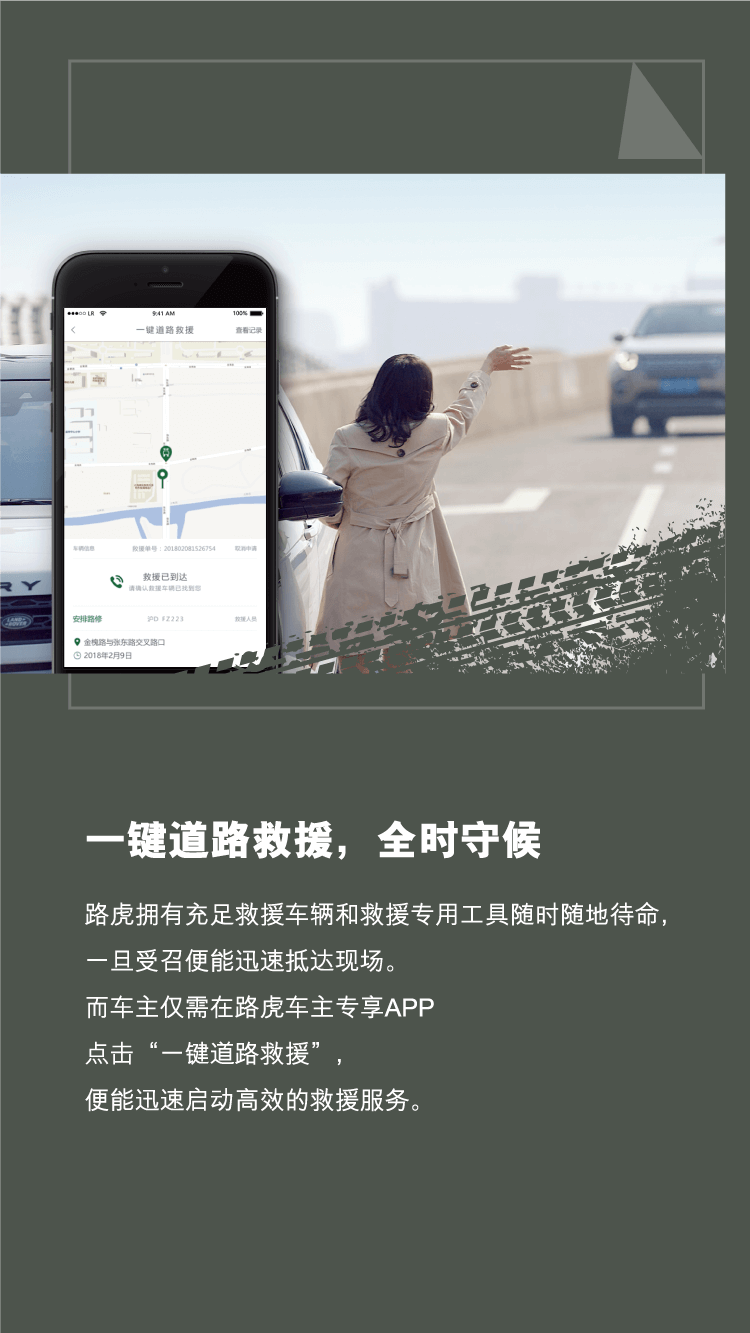
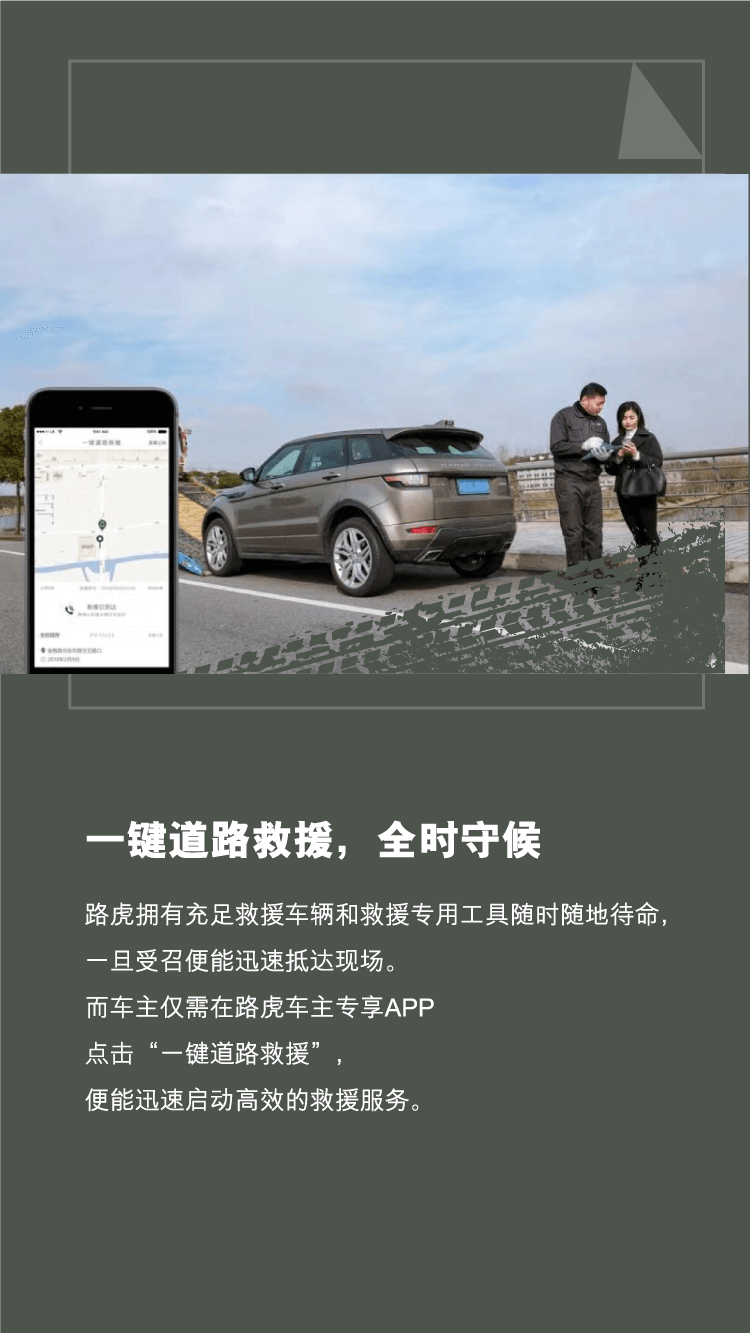
update img version1

Changed region(s): [[0.0, 0.123, 1.0, 0.5229]]

diff --git a/public/html/activity/assets/global.css b/public/html/activity/assets/global.css
@@ -79,40 +79,40 @@
     margin-left: -9px;
     width: 19px;
     height: 12px;
-    background: url(./img/arrow_gray.png?t=201902181421);
+    background: url(./img/arrow_gray.png?t=201903121054);
     background-size: 100% 100%;
     -webkit-animation: start 1.5s infinite ease-in-out;
     animation: start 1.5s infinite ease-in-out;
 }
 
 #jaguar .page1{
-    background-image: url("./img/1@2x.png?t=201902181421");
+    background-image: url("./img/1@2x.png?t=201903121054");
     background-size: 100% 100%;
     background-repeat: no-repeat;
     background-color: #fff;
 }
 #jaguar .page2{
-    background-image: url("./img/2@2x.png?t=201902181421");
+    background-image: url("./img/2@2x.png?t=201903121054");
     background-size: 100% 100%;
     background-repeat: no-repeat;
     background-color: #1d263f;
 }
 #jaguar .page3{
-    background-image: url("./img/3@2x.png?t=201902181421");
+    background-image: url("./img/3@2x.png?t=201903121054");
     background-size: 100% 100%;
     background-repeat: no-repeat;
     background-color: #1d263f;
 }
 
 #jaguar .page4{
-    background-image: url("./img/4@2x.png?t=201902181421");
+    background-image: url("./img/4@2x.png?t=201903121054");
     background-size: 100% 100%;
     background-repeat: no-repeat;
     background-color: #1d263f;
 }
 
 #jaguar .page5{
-    background-image: url("./img/5@2x.png?t=201902181421");
+    background-image: url("./img/5@2x.png?t=201903121054");
     background-size: 100% 100%;
     background-repeat: no-repeat;
     background-color: #1d263f;
@@ -120,47 +120,47 @@
 
 
 #jaguar .page6{
-    background-image: url("./img/6@2x.png?t=201902181421");
+    background-image: url("./img/6@2x.png?t=201903121054");
     background-size: 100% 100%;
     background-repeat: no-repeat;
     background-color: #1d263f;
 }
 
 #jaguar .page7{
-    background-image: url("./img/7@2x.png?t=201902181421");
+    background-image: url("./img/7@2x.png?t=201903121054");
     background-size: 100% 100%;
     background-repeat: no-repeat;
     background-color: #1d263f;
 }
 
 #land-rover .page1{
-    background-image: url("./img/l1@2x.png?t=201902181421");
+    background-image: url("./img/l1@2x.png?t=201903121054");
     background-size: 100% 100%;
     background-repeat: no-repeat;
     background-color: #fff;
 }
 #land-rover .page2{
-    background-image: url("./img/l2@2x.png?t=201902181421");
+    background-image: url("./img/l2@2x.png?t=201903121054");
     background-size: 100% 100%;
     background-repeat: no-repeat;
     background-color: #1d263f;
 }
 #land-rover .page3{
-    background-image: url("./img/l3@2x.png?t=201902181421");
+    background-image: url("./img/l3@2x.png?t=201903121054");
     background-size: 100% 100%;
     background-repeat: no-repeat;
     background-color: #1d263f;
 }
 
 #land-rover .page4{
-    background-image: url("./img/l4@2x.png?t=201902181421");
+    background-image: url("./img/l4@2x.png?t=201903121054");
     background-size: 100% 100%;
     background-repeat: no-repeat;
     background-color: #1d263f;
 }
 
 #land-rover .page5{
-    background-image: url("./img/l5@2x.png?t=201902181421");
+    background-image: url("./img/l5@2x.png?t=201903121054");
     background-size: 100% 100%;
     background-repeat: no-repeat;
     background-color: #1d263f;
@@ -168,14 +168,14 @@
 
 
 #land-rover .page6{
-    background-image: url("./img/l6@2x.png?t=201902181421");
+    background-image: url("./img/l6@2x.png?t=201903121054");
     background-size: 100% 100%;
     background-repeat: no-repeat;
     background-color: #1d263f;
 }
 
 #land-rover .page7{
-    background-image: url("./img/l7@2x.png?t=201902181421");
+    background-image: url("./img/l7@2x.png?t=201903121054");
     background-size: 100% 100%;
     background-repeat: no-repeat;
     background-color: #1d263f;

diff --git a/public/html/activity/land-rover.html b/public/html/activity/land-rover.html
@@ -6,7 +6,7 @@
     <meta name="viewport" content="width=device-width, initial-scale=1, maximum-scale=1, user-scalable=no">
     <title>路虎</title>
     <link rel="stylesheet" href="./assets/zepto.fullpage.css">
-    <link rel="stylesheet" href="./assets/global.css?t=201902181421">
+    <link rel="stylesheet" href="./assets/global.css?t=201903121054">
 </head>
 <body>
 <div class="wp" id="land-rover">

diff --git a/public/html/activity/jaguar.html b/public/html/activity/jaguar.html
@@ -6,7 +6,7 @@
     <meta name="viewport" content="width=device-width, initial-scale=1, maximum-scale=1, user-scalable=no">
     <title>捷豹</title>
     <link rel="stylesheet" href="./assets/zepto.fullpage.css">
-    <link rel="stylesheet" href="./assets/global.css?t=201902181338">
+    <link rel="stylesheet" href="./assets/global.css?t=201903121054">
 </head>
 <body>
 <div class="wp" id="jaguar">
